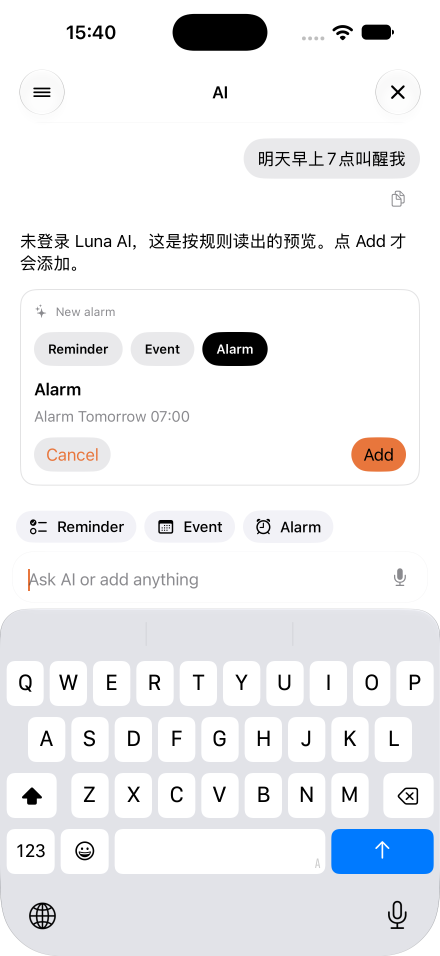
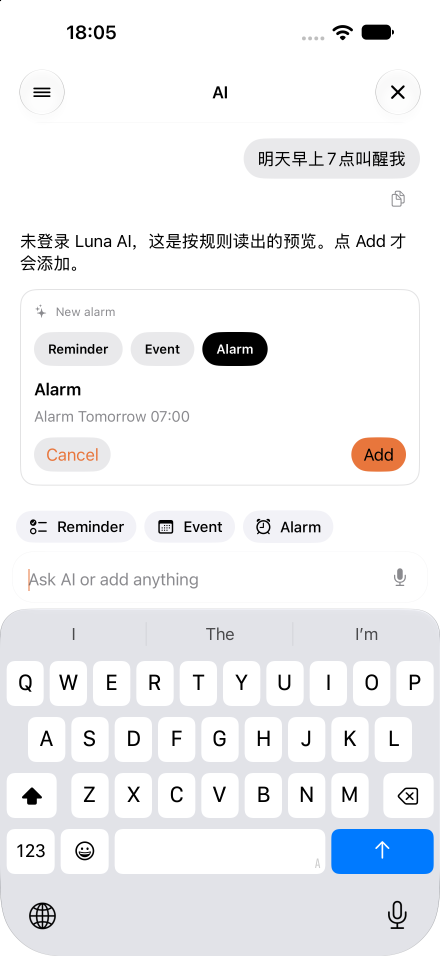
FastLane: a Tidy request (整理逾期) is never a direct reminder
Found on the simulator: "整理逾期" was added directly as a reminder titled
"整理逾期". OverdueTidy and ChatRouting now accept 逾期 as well as 过期, and the
one-off gate refuses any Tidy request.

diff --git a/ios/Sources/TodayCore/OverdueTidy.swift b/ios/Sources/TodayCore/OverdueTidy.swift
@@ -76,9 +76,9 @@ public enum OverdueTidy {
   /// "tidy overdue", "clean up overdue", "整理过期" … A question ("what's overdue?") is not a request.
   public static func isRequest(_ text: String) -> Bool {
     let t = text.lowercased()
-    // "Tidy 3 overdue", "tidy my 3 overdue reminders", "整理3条过期提醒".
+    // "Tidy 3 overdue", "tidy my 3 overdue reminders", "整理3条过期提醒", "整理2条逾期".
     if t.range(
-      of: #"\btidy\s+(?:up\s+)?(?:my\s+)?\d+\s+overdue|整理\s*\d+\s*条\s*过期"#,
+      of: #"\btidy\s+(?:up\s+)?(?:my\s+)?\d+\s+overdue|整理\s*\d+\s*条\s*(?:过期|逾期)"#,
       options: .regularExpression) != nil
     {
       return true
@@ -86,7 +86,7 @@ public enum OverdueTidy {
     return [
       "tidy overdue", "tidy up overdue", "clean up overdue", "clear overdue", "reschedule overdue",
       "sort out overdue",
-      "整理过期", "处理过期", "清理过期",
+      "整理过期", "处理过期", "清理过期", "整理逾期", "处理逾期", "清理逾期",
     ].contains { t.contains($0) }
   }
 }

diff --git a/ios/Sources/TodayCore/ChatRouting.swift b/ios/Sources/TodayCore/ChatRouting.swift
@@ -56,7 +56,7 @@ public enum ChatRouting {
     let body = requestBody(text.trimmingCharacters(in: .whitespacesAndNewlines))
     return has(
       body,
-      #"^(?:(?:tidy(?: up)?|clean up|clear|reschedule|sort out) (?:my )?(?:\d+ )?overdue(?: reminders)?)\s*[.!?]*$|^(?:(?:整理|处理|清理)(?:\d+条)?过期(?:提醒)?)(?:好吗|可以吗)?[。！？?]*$"#
+      #"^(?:(?:tidy(?: up)?|clean up|clear|reschedule|sort out) (?:my )?(?:\d+ )?overdue(?: reminders)?)\s*[.!?]*$|^(?:(?:整理|处理|清理)(?:\d+条)?(?:过期|逾期)(?:提醒)?)(?:好吗|可以吗)?[。！？?]*$"#
     )
   }
 

diff --git a/ios/Eval/Tests/OneLogicTests/FastLaneTests.swift b/ios/Eval/Tests/OneLogicTests/FastLaneTests.swift
@@ -219,4 +219,12 @@ final class FastLaneTests: XCTestCase {
     XCTAssertFalse(plain.ringsAsAlarm)
     XCTAssertEqual(plain.kind, .task)
   }
+
+  func testATidyRequestIsNeverADirectReminder() {
+    for text in ["整理逾期", "整理过期", "Tidy overdue", "清理逾期提醒", "整理3条逾期"] {
+      XCTAssertTrue(OverdueTidy.isRequest(text), text)
+      if case .directReminder = decide(text) { XCTFail(text) }
+      XCTAssertNil(FastLane.localPreview(text, items: [], now: now, calendar: calendar), text)
+    }
+  }
 }

diff --git a/ios/Sources/TodayCore/OneOffReminderRequest.swift b/ios/Sources/TodayCore/OneOffReminderRequest.swift
@@ -13,6 +13,8 @@ public enum OneOffReminderRequest {
       // Someone else's plans, a question about what Today can do, an event with a length, or two
       // reminders in one message are never a clear one-off reminder (agent P3 holdout findings).
       !FastLane.isReportedSpeech(text), !isQuestion(text), !hasDuration(text),
+      // "整理逾期" asks for the Tidy card; it is not a reminder titled "整理逾期".
+      !OverdueTidy.isRequest(text),
       reminderVerbs(text) < 2,
       text.range(
         of:
